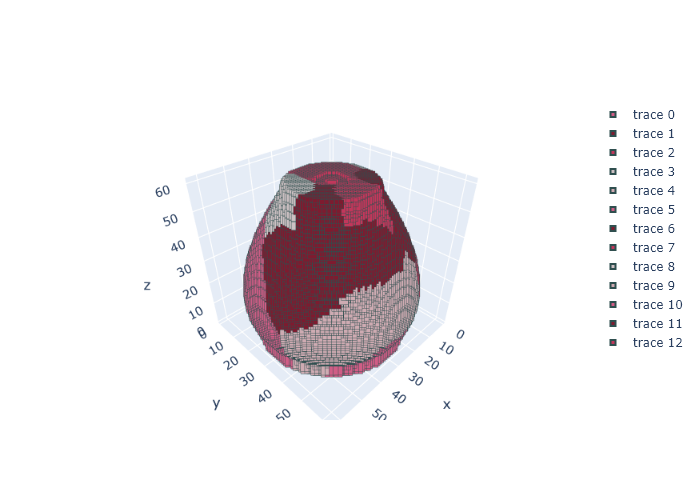
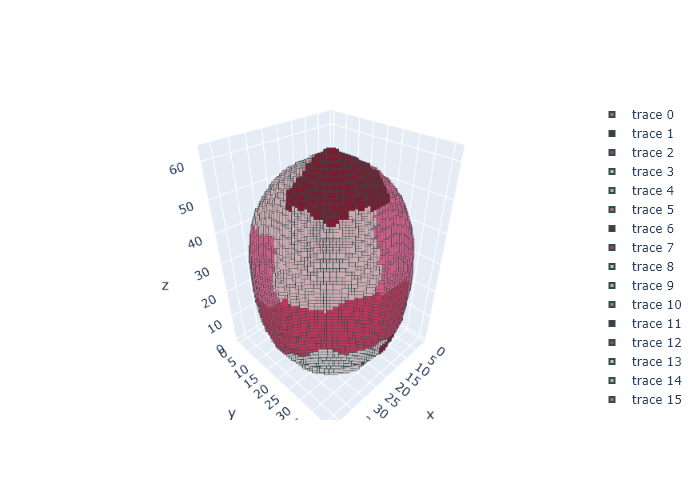
12_28_1
修复了读取的bug；修复了frag和vox未全部transform的bug

diff --git a/utils/FragmentDataset.py b/utils/FragmentDataset.py
@@ -51,7 +51,7 @@ class FragmentDataset(Dataset):
         self.transform = transform
         self.dim_size = dim_size
         # self.vox_files = [] #???
-        self.vox_files = glob.glob('{0} / {1} / * / * .vox'.format(self.vox_path, self.vox_type))
+        self.vox_files = glob.glob('../{0}/{1}/*/*.vox'.format(self.vox_path, self.vox_type))
         self.vox_files = sorted(self.vox_files)
 
     def __len__(self):
@@ -78,7 +78,11 @@ class FragmentDataset(Dataset):
         frag_id = np.unique(voxel)[1:]
         idx = random.randint(0, len(frag_id) - 1) #注意这个函数左闭右闭
         select_frag = frag_id[idx]
-        voxel = (voxel == select_frag)
+        for f in frag_id:
+            if f == select_frag:
+                voxel[voxel == f] = 1
+            else :
+                voxel[voxel == f] = 0
         return voxel, select_frag
         
     def __non_select_fragment__(self, voxel, select_frag):
@@ -119,7 +123,8 @@ class FragmentDataset(Dataset):
         frag, select_frag = self.__select_fragment__(vox.copy())
         if self.transform:
             vox = self.transform(vox)
-        return frag, vox,  # select_frag, int(label)-1#, img_path
+            frag = self.transform(frag)
+        return frag, vox, int(label) - 1 # select_frag, int(label)-1#, img_path
 
     def __getitem_specific_frag__(self, idx, select_frag):
         # TODO
@@ -133,7 +138,8 @@ class FragmentDataset(Dataset):
         frag, select_frag = self.__select_fragment_specific__(vox.copy(), select_frag)
         if self.transform:
             vox = self.transform(vox)
-        return frag, vox,  # select_frag, int(label)-1, img_path
+            frag = self.transform(frag)
+        return frag, vox, int(label) - 1 # select_frag, int(label)-1, img_path
 
     def __getfractures__(self, idx):
         img_path = self.vox_files[idx]

diff --git a/chinese.md b/chinese.md
@@ -55,7 +55,7 @@ __select_fragment_specific__ 方法根据指定类型选择碎片。
 编写适当的注释和文档，以便其他开发人员能够理解您的代码。
 完成这些实现后，您应该能够使用DataLoader类来迭代地加载和处理您的数据集，为训练GAN模型做好准备。
 
-1. 构建一个基础生成对抗网络（GAN）
+3) 构建一个基础生成对抗网络（GAN）
 一个典型的生成对抗网络（GAN）框架由一个生成器（G）和一个判别器（D）组成。生成器G的目标是生成逼真的工件，而判别器D则学习区分真实数据p_d(x)和生成的样本。在我们的场景中，z是一个体素化的输入碎片（我们建议您从32 × 32 × 32的体积开始）。生成器函数G(z)将这个碎片映射到完整的体素化陶器的数据空间，从而创建了一个自编码生成对抗网络（AE-GAN）。
 
 在AE-GAN中，生成器G包括编码器，这些编码器经过训练，可以将碎片映射到潜在空间，而解码器则可以将潜在空间中的点（w）映射回完整的陶器。通过迭代调整，生成器G学会在判别器D中产生误分类。在这里，x是一个三维二进制数组，代表体素化的陶器几何形状。D(G(z))是生成器G的输出被判别为来自3D数据集中的真实工件的概率。
